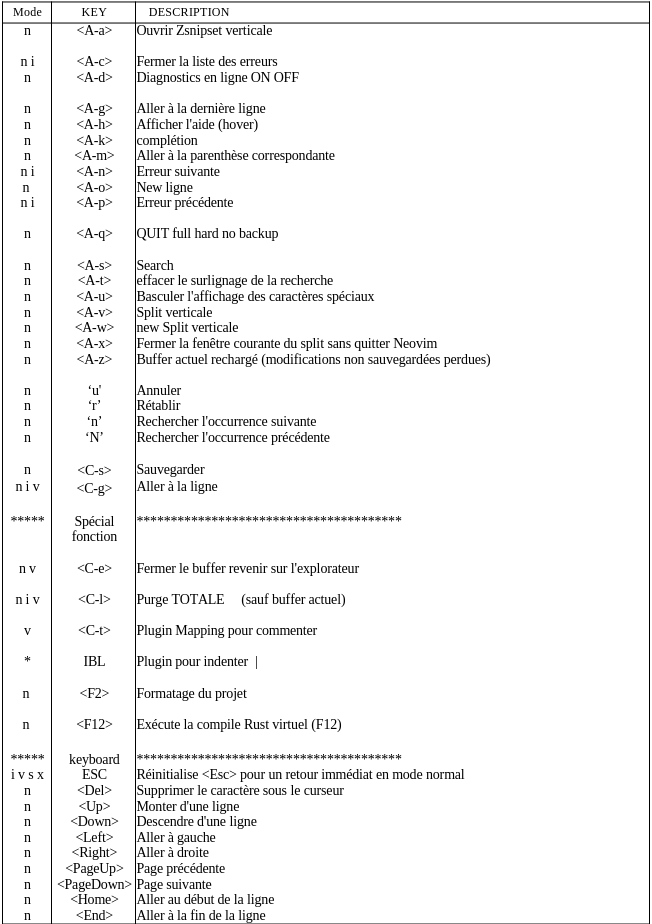
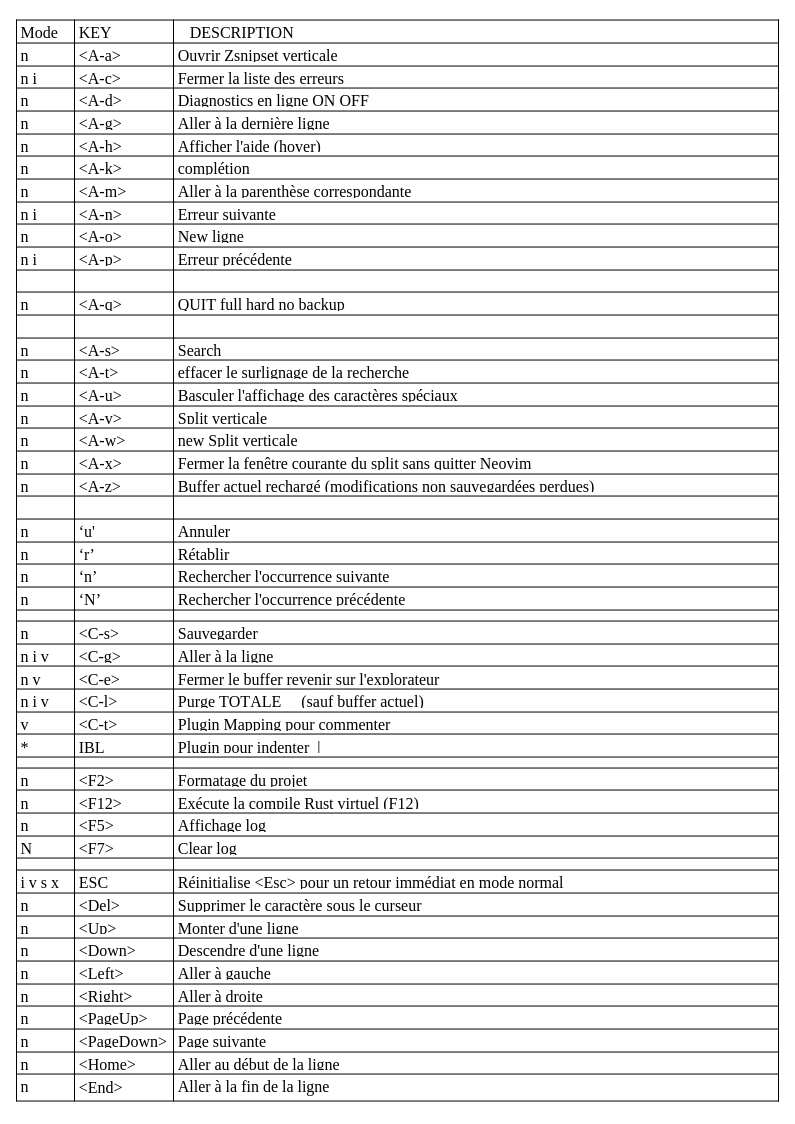
maj_20260225_09:50

Changed region(s): [[0.0, 0.0, 1.0, 1.0]]

diff --git a/README.md b/README.md
@@ -24,11 +24,17 @@ Because I can't spend all my time configuring an editor... 1 month Because I can
 **THANK YOU to the OPEN-SOURCE community**,   
   
   
-cargo_check_errors  Start-up control of the project.  
+cargo_check_errors  Start-up control of the project.    
+  
+Function: “log” for traceability, or debugging  
   
 "F2" active source Format the project, involves automatic saving.  
   
-"F12" active source compilation option, to check consistency, involves automatic saving.  
+"F12" active source compilation option, to check consistency, involves automatic saving.    
+  
+"F5" display log  
+  
+"7"  clear log  
   
 UTF-8 character consistency  
   
@@ -56,10 +62,10 @@ The “LSP” for Rust was configured by Mistral and tested by me, striking a ba
 install   xclip and parcellite **
   
 
-**2026-02-14 22:30**  Remove config and lspconfig <BR/>
+**2026-02-25 09:45** <BR/>
 Support for the new lsp-neovim <BR/>  
 restructuring init.lua, for greater readability<BR/>  
-
+I am testing it in real life for everyday use.
 
 <BR/>
 config bashrc<BR/>
